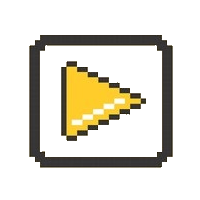
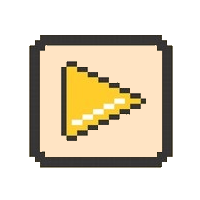
Update sing up board and chameleon img

Changed region(s): [[0.18, 0.21, 0.81, 0.81]]

diff --git a/src/main/resources/static/index.html b/src/main/resources/static/index.html
@@ -14,7 +14,7 @@
     </h1>
 </div>
 <div class="preview-img">
-    <img class="preview-img" src="img/chameleon.png" alt="404 not found">
+    <img class="preview-img" src="img/chameleon2.png" alt="404 not found">
 </div>
 <div class="auth">
     <h2 class="auth-properties">Sign In</h2>

diff --git a/src/main/resources/static/css/style.css b/src/main/resources/static/css/style.css
@@ -22,7 +22,8 @@ body {
 
 .preview-img{
     width: 400px;
-    margin: 50px auto auto;
+    margin: 50px auto -97px 459px;
+
 }
 
 .auth {
